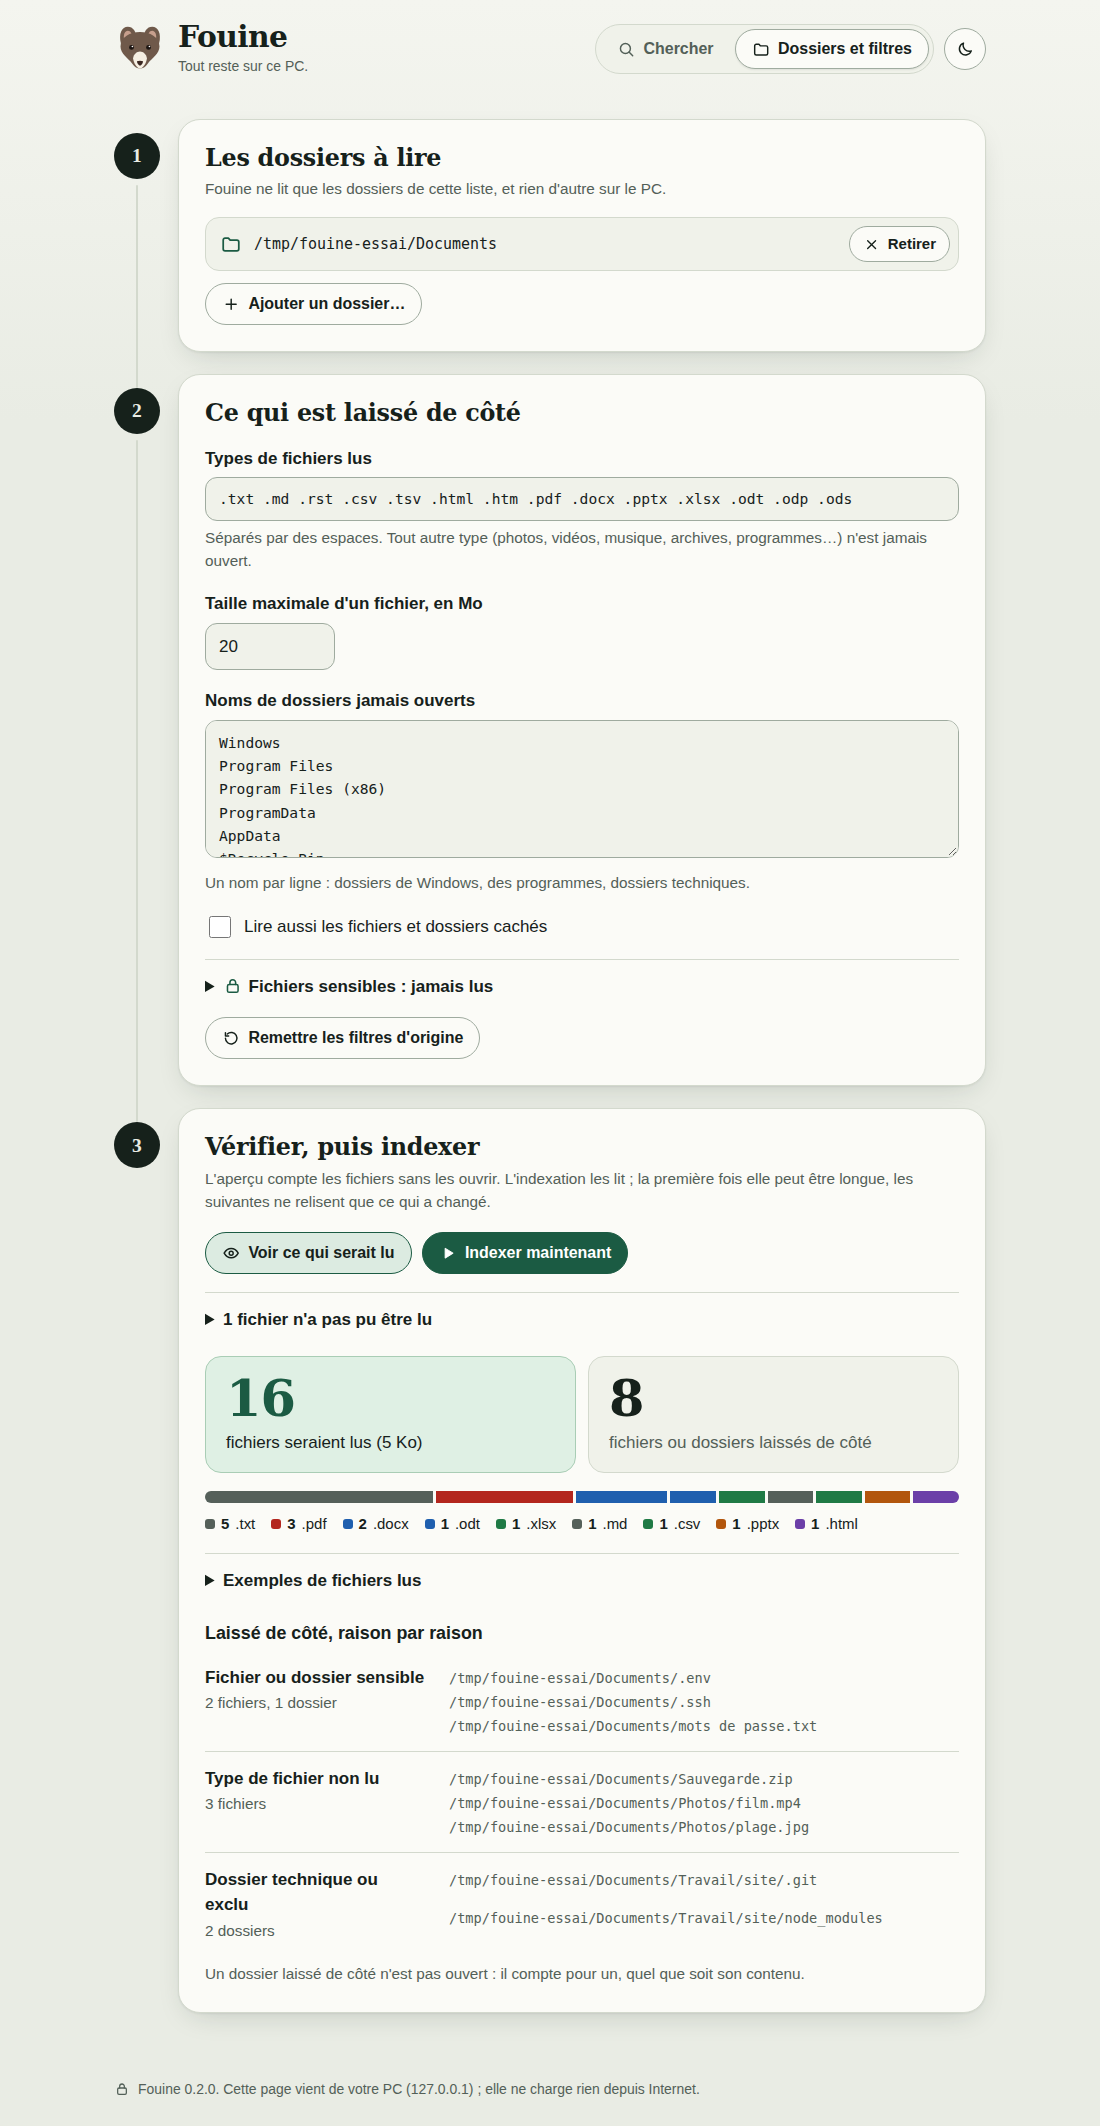
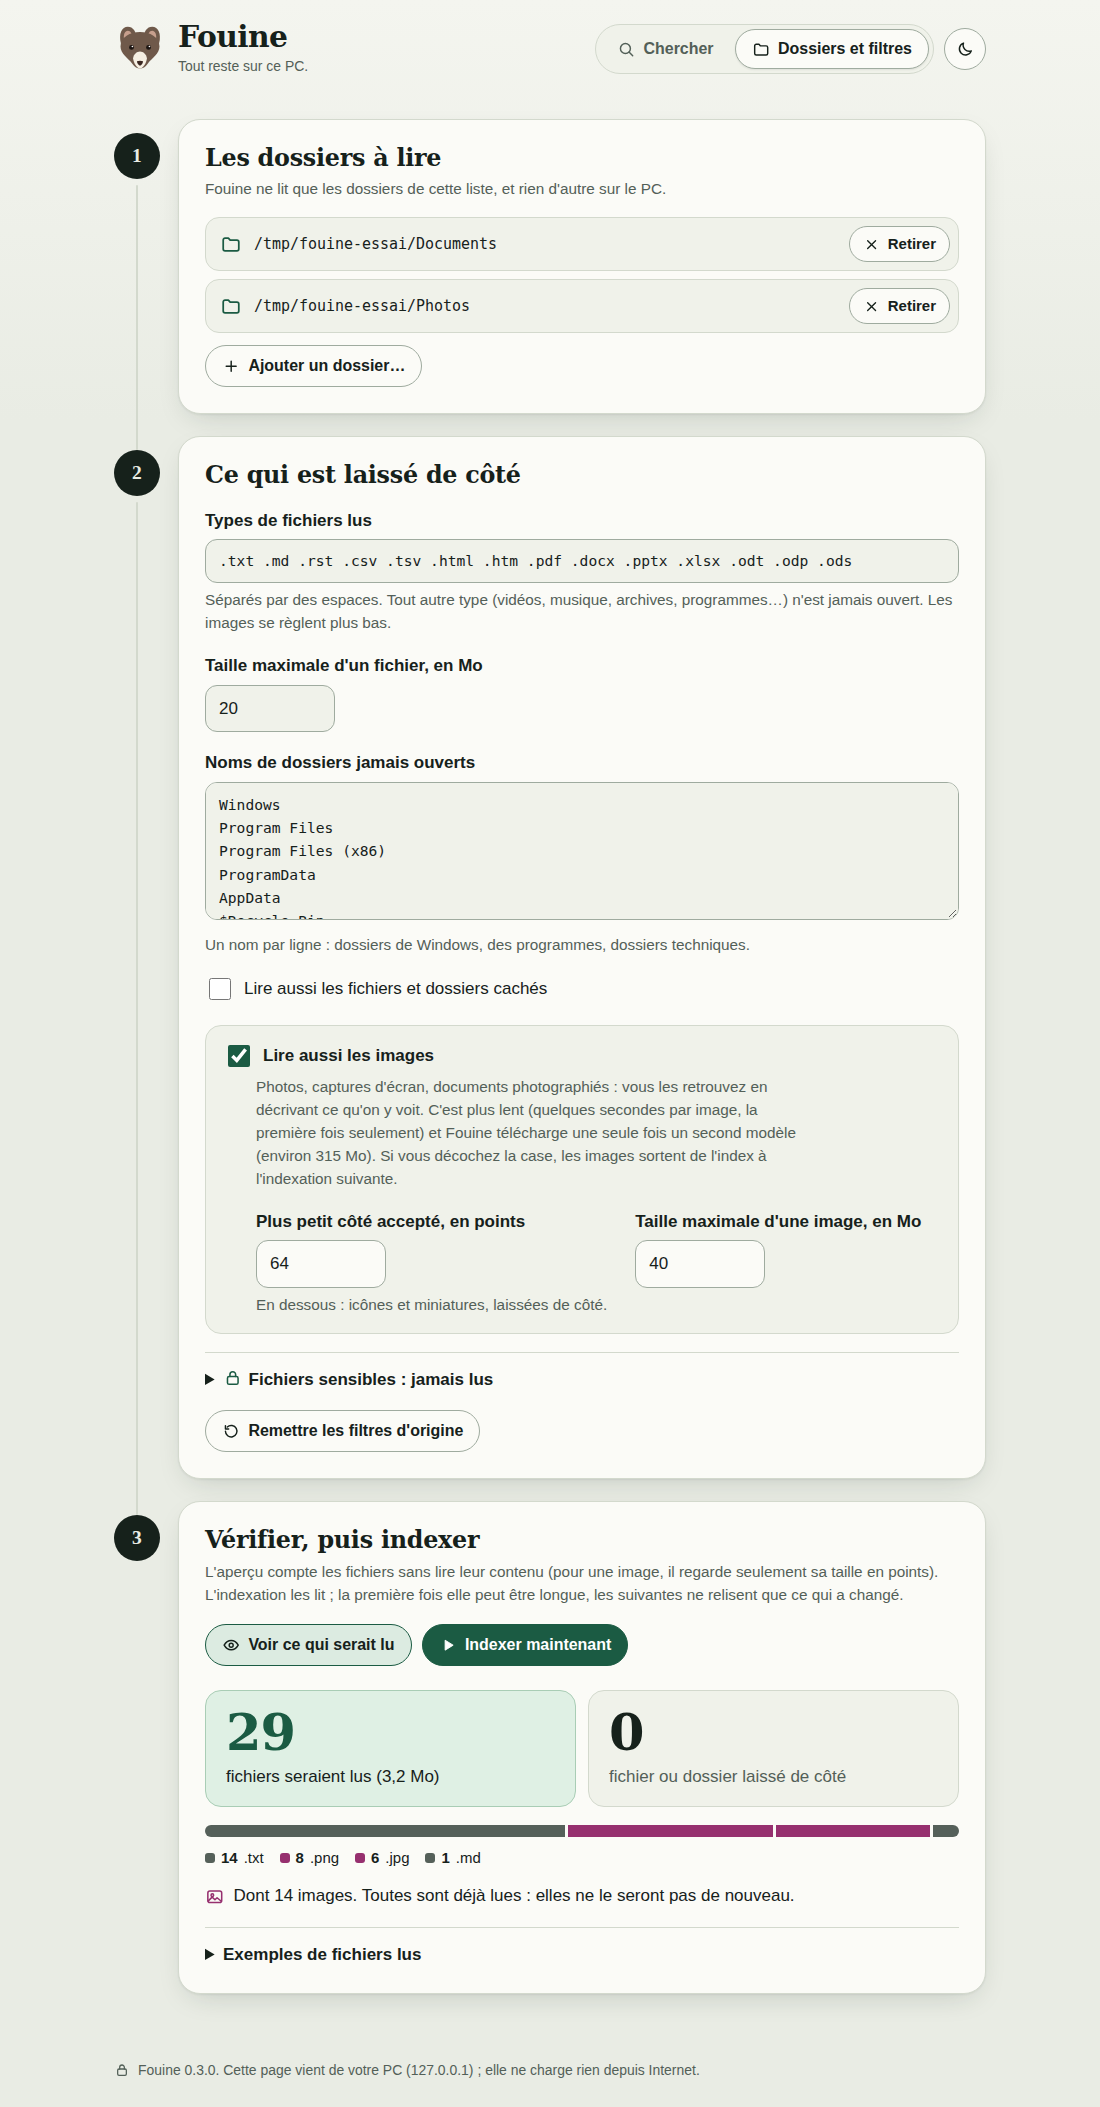
Fouine 0.3.0 : README (exe, images, limites) et captures

diff --git a/fouine/__init__.py b/fouine/__init__.py
@@ -1,3 +1,3 @@
 """Fouine : retrouver ses fichiers par le sens, sans rien envoyer hors du PC."""
 
-__version__ = "0.2.0"
+__version__ = "0.3.0"

diff --git a/README.md b/README.md
@@ -7,23 +7,42 @@ montre la facture du plombier, même si aucun de ces mots n'est dans le nom du f
 **Tout se passe sur votre PC.** Vos fichiers, leur texte et vos recherches ne
 sont envoyés nulle part.
 
-![Une recherche dans Fouine](docs/capture-recherche.png)
+![Une recherche dans Fouine : des documents, puis des images](docs/capture-recherche.png)
 
-> Petite version (0.2). Elle fait peu de choses, volontairement. La 0.2 refait toute l'interface : thème clair et thème sombre (bouton en haut à droite), mêmes fonctions.
+> Petite version (0.3). Elle fait peu de choses, volontairement. Nouveau dans la 0.3 : Fouine peut aussi chercher dans vos **images** (option à cocher), et il existe en **programme Windows tout fait** (`Fouine.exe`), sans rien installer d'autre.
 
-## Ce qui reste sur votre PC, et la seule connexion à Internet
+## Ce qui reste sur votre PC, et les seules connexions à Internet
 
-- Fouine lit vos fichiers et calcule leur « empreinte de sens » (embedding) **sur votre PC**, avec un petit modèle de langue.
+- Fouine lit vos fichiers et calcule leur « empreinte de sens » (embedding) **sur votre PC**, avec de petits modèles.
 - L'index est un simple fichier rangé sur votre PC (sous Windows : `%LOCALAPPDATA%\Fouine`).
 - L'interface s'affiche dans votre navigateur, mais la page vient de votre PC (adresse `127.0.0.1`). Elle ne charge rien depuis Internet et n'est pas visible depuis un autre appareil.
-- **Fouine se connecte à Internet dans un seul cas** : la première fois, pour télécharger le modèle de langue (environ 220 Mo, depuis le site Hugging Face). Ensuite il marche sans connexion.
-- L'installation (`installer.bat`) télécharge aussi, une fois, les bibliothèques Python nécessaires.
+- **Fouine se connecte à Internet dans deux cas seulement**, pour télécharger ses modèles depuis le site Hugging Face, une fois chacun :
+  1. à la première indexation, le modèle des textes (environ 220 Mo) ;
+  2. **seulement si vous cochez « Lire aussi les images »**, le modèle des images (environ 315 Mo), à la première indexation qui suit.
 
-## Installation sous Windows, pas à pas
+  Ensuite Fouine marche sans connexion. Rien n'est jamais envoyé : ce sont des téléchargements.
+
+## Installation sous Windows : le programme tout fait
+
+1. Allez sur la page [« Releases »](https://github.com/RomainC-lab/fouine/releases/latest) et téléchargez le fichier `Fouine-…-windows.zip`.
+2. Décompressez-le où vous voulez (clic droit, « Extraire tout… »), par exemple dans `Documents`. Il ne faut pas lancer Fouine depuis l'intérieur du zip.
+3. Dans le dossier `Fouine`, **double-cliquez sur `Fouine.exe`**.
+4. La première fois, Windows affiche sans doute une fenêtre bleue **« Windows a protégé votre ordinateur »** (SmartScreen). C'est attendu : Fouine n'est pas « signé », parce qu'une signature se paie chaque année. Cliquez sur **« Informations complémentaires »**, puis sur **« Exécuter quand même »**.
+5. Une fenêtre noire s'ouvre et reste ouverte (c'est Fouine qui tourne), et votre navigateur ouvre la page de Fouine.
+
+**Pour arrêter Fouine, fermez la fenêtre noire.** Pour le relancer, double-cliquez de nouveau sur `Fouine.exe`. Il n'y a rien à installer : pas de Python, pas de programme d'installation. Les modèles ne sont pas dans le zip ; Fouine les télécharge au premier besoin (voir plus haut).
+
+Le dossier `Fouine` doit rester entier : `Fouine.exe` a besoin du dossier `_internal` qui est à côté de lui. Pour mettre à jour, remplacez le dossier par celui de la nouvelle version ; votre index et vos réglages sont rangés ailleurs (`%LOCALAPPDATA%\Fouine`) et sont gardés.
+
+Pour vérifier le fichier téléchargé, la page de la Release donne son empreinte SHA-256. Le zip est fabriqué par GitHub à partir du code de ce dépôt (voir `.github/workflows/`), pas sur le PC de quelqu'un.
+
+## Installation avec Python (Windows, Linux, macOS)
+
+Pour qui préfère lancer le code lui-même.
 
 1. **Installer Python** (gratuit), si ce n'est pas déjà fait : allez sur <https://www.python.org/downloads/>, téléchargez Python (version 3.10 ou plus récente), lancez l'installation et **cochez la case « Add python.exe to PATH »** avant de cliquer sur « Install Now ».
-2. **Télécharger Fouine** : sur cette page, bouton vert « Code », puis « Download ZIP ». Décompressez le dossier où vous voulez (par exemple dans `Documents`).
-3. Dans le dossier décompressé, **double-cliquez sur `installer.bat`**. Une fenêtre noire travaille quelques minutes. À faire une seule fois.
+2. **Télécharger Fouine** : sur la page du dépôt, bouton vert « Code », puis « Download ZIP ». Décompressez le dossier où vous voulez.
+3. Dans le dossier décompressé, **double-cliquez sur `installer.bat`**. Une fenêtre noire travaille quelques minutes (elle télécharge, une fois, les bibliothèques Python nécessaires).
 4. **Double-cliquez sur `lancer.bat`**. Une fenêtre noire reste ouverte (c'est Fouine qui tourne) et votre navigateur ouvre la page de Fouine.
 
 Pour arrêter Fouine, fermez la fenêtre noire.
@@ -41,6 +60,17 @@ Quand vos fichiers changent, relancez « Indexer maintenant » : seuls les fichi
 
 ![Les filtres et l'aperçu avant indexation](docs/capture-filtres.png)
 
+## Chercher aussi dans les images
+
+Dans « Dossiers et filtres », cochez **« Lire aussi les images »** (la case est décochée au départ). Fouine lit alors les photos, les captures d'écran et les documents photographiés des dossiers choisis, et vous les retrouvez en décrivant ce qu'on y voit : « coucher de soleil sur la mer », « facture du plombier », « ticket de la pharmacie ».
+
+- **C'est plus lent** : quelques secondes par image, la première fois seulement (environ 1,5 à 2 secondes sur un vieux PC à 4 cœurs ; 1 000 photos, c'est donc une demi-heure environ). L'aperçu dit combien d'images restent à lire. Il n'annonce une durée que lorsque Fouine a déjà mesuré la vitesse de votre PC ; pendant l'indexation, le temps restant s'affiche après les premières images. Les documents sont lus d'abord, et vous pouvez arrêter puis reprendre.
+- **Un second modèle est téléchargé**, une seule fois (environ 315 Mo) : EmbeddingGemma 2, de Google. Si la case reste décochée, il n'est ni téléchargé ni chargé.
+- **Les résultats sont en deux blocs** : « Documents », comme avant, et « Images », une planche de vignettes. Les deux blocs ne sont pas mélangés, parce que les deux modèles ne notent pas de la même façon. Fouine montre les 12 images les plus proches, la plus proche en premier ; il n'y a pas de seuil, donc les dernières peuvent n'avoir aucun rapport avec votre recherche.
+- **Types lus** : `.jpg` `.jpeg` `.jfif` `.png` `.webp` `.bmp` `.gif` (première image seulement) `.tif` `.tiff`. **Non lus** : les photos `.heic` des iPhone, les fichiers RAW des appareils photo (`.cr2`, `.nef`, `.arw`, `.dng`…), les `.svg`, les `.psd`, et toutes les vidéos.
+- **Les mêmes filtres s'appliquent** (fichiers sensibles d'après leur nom, dossiers exclus, fichiers cachés, raccourcis jamais suivis), avec deux réglages en plus : les images de moins de 64 points de côté (icônes, miniatures) et celles de plus de 40 Mo sont laissées de côté. Une image abîmée est comptée parmi les fichiers « pas pu être lus », sans arrêter l'indexation.
+- Si vous décochez la case, les images sortent de l'index à l'indexation suivante.
+
 Le thème sombre suit le réglage de votre PC ; le bouton en haut à droite permet d'en changer.
 
 ![Une recherche avec le thème sombre](docs/capture-sombre.png)
@@ -53,7 +83,9 @@ Le thème sombre suit le réglage de votre PC ; le bouton en haut à droite perm
 | **Dossiers du système** | `Windows`, `Program Files`, `ProgramData`, `AppData`, `$Recycle.Bin`… (et `/proc`, `/sys`, `/etc`… sous Linux). |
 | **Dossiers techniques** | `.git`, `node_modules`, `venv`, `__pycache__`, caches. |
 | **Fichiers et dossiers cachés** | Ceux dont le nom commence par un point, ou marqués « cachés » sous Windows. |
-| **Tout ce qui n'est pas un document** | Seuls ces types sont lus : `.txt` `.md` `.rst` `.csv` `.tsv` `.html` `.htm` `.pdf` `.docx` `.pptx` `.xlsx` `.odt` `.odp` `.ods`. Photos, vidéos, musique, archives, programmes : jamais ouverts. |
+| **Tout ce qui n'est pas un document** | Seuls ces types sont lus : `.txt` `.md` `.rst` `.csv` `.tsv` `.html` `.htm` `.pdf` `.docx` `.pptx` `.xlsx` `.odt` `.odp` `.ods`. Vidéos, musique, archives, programmes : jamais ouverts. Les images ne sont lues que si vous cochez « Lire aussi les images ». |
+| **Images trop petites ou trop grosses** | Moins de 64 points de côté, ou plus de 40 Mo (quand les images sont lues). |
+| **Le dossier de Fouine lui-même** | Son index, ses vignettes et ses modèles ne sont jamais lus, même s'ils se trouvent dans un dossier choisi. |
 | **Fichiers trop gros** | Plus de 20 Mo. |
 | **Raccourcis (liens symboliques)** | Jamais suivis : Fouine ne sort pas des dossiers choisis. |
 
@@ -63,27 +95,33 @@ Ces réglages se changent dans la page (types de fichiers, taille, noms de dossi
 
 ## Limites connues
 
-- **PDF scannés et images** : Fouine ne lit pas le texte d'une image (pas de reconnaissance de caractères). Un PDF scanné reste trouvable par son nom seulement.
+- **PDF scannés** : Fouine ne lit pas le texte d'un PDF fait d'images (pas de reconnaissance de caractères). Un PDF scanné reste trouvable par son nom seulement.
+- **Images** : le modèle « regarde » l'image entière, réduite. Il reconnaît bien le sujet d'une photo et le genre d'un document photographié (facture, ticket, lettre) avec ses gros titres ; il ne lit pas de façon fiable les petits caractères d'une page entière. Sur le jeu d'essai (11 questions sur des photos, 16 sur des images de documents, 25 images), la bonne image arrivait en tête à chaque fois ; ce jeu est petit et fabriqué, vos résultats seront moins nets, surtout parmi des milliers de photos qui se ressemblent.
+- **Images, suite** : pas de recherche par visage ou par nom de personne, pas de lecture des `.heic`, des RAW ni des vidéos. Le nom du fichier d'une image ne compte pas dans la recherche.
+- **Mémoire** : avec les images, Fouine utilise environ 1,2 Go de mémoire pendant l'indexation et la recherche (environ 700 Mo sans les images).
 - **Tableurs** : seul le texte des cellules est lu, pas les nombres ; la recherche par le sens y marche moins bien.
 - **Anciens formats** `.doc`, `.xls`, `.ppt` : non lus.
 - Les filtres sur les noms sont volontairement prudents : un fichier appelé `secretariat.txt` est écarté parce que son nom contient « secret ». L'aperçu le montre.
 - Un texte très long est coupé après environ 400 pages.
 - Les résultats peuvent contenir, en fin de liste, des fichiers sans grand rapport : le modèle est petit.
 - Pensé pour quelques milliers à quelques dizaines de milliers de documents. Au-delà, la recherche ralentit et prend plus de mémoire.
-- L'index contient le texte de vos documents, en clair, sur votre PC : il est aussi privé qu'eux.
-- Écrit pour Windows, Linux et macOS, mais **testé pour l'instant sous Linux seulement**.
+- L'index contient le texte de vos documents, en clair, sur votre PC : il est aussi privé qu'eux. Quand les images sont lues, le dossier de données contient aussi une petite copie de chaque image (les vignettes).
+- **Sous Windows**, les tests automatiques tournent à chaque changement et `Fouine.exe` passe un auto-test avant d'être publié, le tout sur les machines de GitHub. Fouine a été utilisé « pour de vrai » surtout sous Linux : l'ouverture du navigateur, le téléchargement des modèles et la vitesse sur un vrai PC Windows restent à confirmer par l'usage. Un antivirus peut aussi se méfier d'un programme non signé.
 
 ## Pour tout effacer
 
-Supprimez le dossier de Fouine, et le dossier de données : `%LOCALAPPDATA%\Fouine` sous Windows (tapez ce chemin dans la barre d'adresse de l'Explorateur), `~/.local/share/fouine` sous Linux, `~/Library/Application Support/Fouine` sous macOS. Vos fichiers ne sont jamais modifiés par Fouine.
+Supprimez le dossier de Fouine (celui de `Fouine.exe`), et le dossier de données (index, réglages, vignettes, modèles) : `%LOCALAPPDATA%\Fouine` sous Windows (tapez ce chemin dans la barre d'adresse de l'Explorateur), `~/.local/share/fouine` sous Linux, `~/Library/Application Support/Fouine` sous macOS. Vos fichiers ne sont jamais modifiés par Fouine.
 
 ## Pour les curieux
 
-- Python, peu de dépendances : [fastembed](https://github.com/qdrant/fastembed) (calcul des embeddings avec ONNX, sans PyTorch), `numpy`, `pypdf`. Les documents Office et LibreOffice sont lus avec la bibliothèque standard.
-- Modèle : `sentence-transformers/paraphrase-multilingual-MiniLM-L12-v2` (multilingue, 384 dimensions).
+- Python, peu de dépendances : [fastembed](https://github.com/qdrant/fastembed) (calcul des embeddings avec ONNX, sans PyTorch), `numpy`, `pypdf`. Les documents Office et LibreOffice sont lus avec la bibliothèque standard. Les images n'ajoutent aucune bibliothèque : `onnxruntime`, `tokenizers`, `huggingface_hub` et `pillow` viennent déjà avec fastembed.
+- Modèle des textes : `sentence-transformers/paraphrase-multilingual-MiniLM-L12-v2` (multilingue, 384 dimensions).
+- Modèle des images : [`onnx-community/embeddinggemma-2-ONNX`](https://huggingface.co/onnx-community/embeddinggemma-2-ONNX) (EmbeddingGemma 2 de Google, licence Apache 2.0), variante `q4`, 70 jetons par image, vecteurs raccourcis à 256 dimensions, version du dépôt fixée dans le code. La question est encodée par les deux modèles ; le second n'est chargé que si des images sont dans l'index.
+- Vignettes : fabriquées sur le PC avec Pillow, servies seulement pour une image présente dans l'index, avec le même jeton que le reste.
+- `Fouine.exe` : PyInstaller, en mode dossier, fabriqué par GitHub Actions sur un tag `v*` ; `Fouine.exe --version` et `Fouine.exe --autotest` (auto-test sans réseau, dans un dossier provisoire) y sont lancés avant publication. Recette : `emballage/Fouine.spec`.
 - Index : un fichier SQLite ; le texte est découpé en morceaux qui se chevauchent ; la recherche mélange la ressemblance de sens (cosinus) et la recherche par mots (FTS5).
 - Serveur local : écoute sur `127.0.0.1` uniquement, port libre choisi au lancement, vérifie les en-têtes `Host` et `Origin`, demande un jeton secret tiré au hasard à chaque lancement ; « ouvrir le fichier » n'accepte qu'un fichier présent dans l'index.
-- Tests : `python -m unittest discover -s tests -t .`
+- Tests : `python -m unittest discover -s tests -t .` (faux modèles, rien n'est téléchargé). Essai réel avec les vrais modèles, à la main : `python tests/essai_reel.py`.
 
 ## Licence
 
